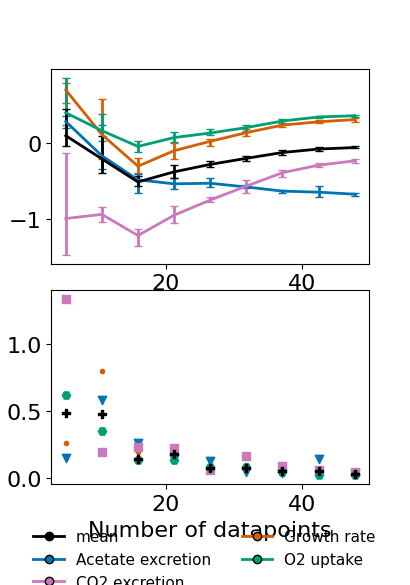
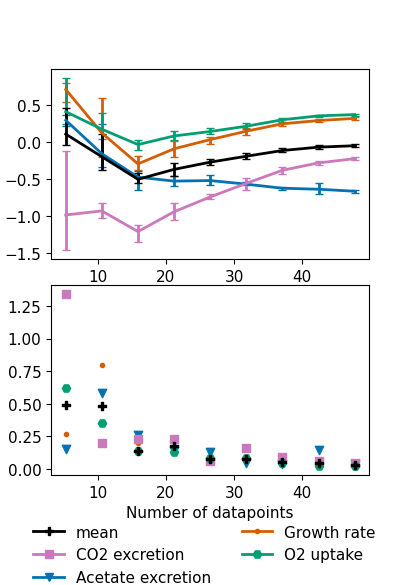
improved fig 4

diff --git a/Figures/Scripts/Figure4_data_reduction.py b/Figures/Scripts/Figure4_data_reduction.py
@@ -2,6 +2,7 @@ import matplotlib.pyplot as plt
 import matplotlib.gridspec as gridspec
 from matplotlib.lines import Line2D
 import matplotlib.container as mcontainer
+from matplotlib.collections import PathCollection
 import pandas as pd
 import os
 import seaborn as sns
@@ -14,7 +15,6 @@ from Scripts.Data_requirements.analyse_data_reduction_results import plot_progre
 def extract_color_and_marker(handle):
     """Extract line color and marker style from different matplotlib handle types."""
     color, marker, mface, medge = None, None, None, None
-
     if isinstance(handle, mcontainer.ErrorbarContainer):
         # Extract the main line and markerline
         if handle.lines[0]:  # main line
@@ -30,13 +30,54 @@ def extract_color_and_marker(handle):
         marker = handle.get_marker()
         mface = handle.get_markerfacecolor()
         medge = handle.get_markeredgecolor()
+    color, marker, mface, medge = None, None, None, None
+
+    if isinstance(handle, mcontainer.ErrorbarContainer):
+        # Extract color and marker from errorbar container
+        if handle.lines[0]:  # main line
+            color = handle.lines[0].get_color()
+        if handle.lines[1]:  # marker line
+            markerline = handle.lines[1][0]
+            marker = markerline.get_marker()
+            mface = markerline.get_markerfacecolor()
+            medge = markerline.get_markeredgecolor()
+
+    elif isinstance(handle, Line2D):
+        # Standard line plot
+        color = handle.get_color()
+        marker = handle.get_marker()
+        mface = handle.get_markerfacecolor()
+        medge = handle.get_markeredgecolor()
+
+    elif isinstance(handle, PathCollection):
+        # Scatter plots
+        # get_facecolors() returns an array of RGBA colors
+        fc = handle.get_facecolors()
+        ec = handle.get_edgecolors()
+
+        if len(fc) > 0:
+            color = mface = fc[0]  # use first color
+        elif len(ec) > 0:
+            color = mface = ec[0]
+        else:
+            color = mface = 'black'  # fallback
+
+        medge = ec[0] if len(ec) > 0 else 'black'
+
+        # Unfortunately, PathCollection doesn’t directly expose the marker symbol.
+        # We can try to infer it from the legend handle if available.
+        marker = getattr(handle, '_marker', None)
 
     else:
-        # fallback (e.g., Patch, Collection)
         try:
             color = handle.get_facecolor()[0]
         except Exception:
             color = 'black'
+
+        try:
+            marker = handle.get_marker()
+        except Exception:
+            marker = None
 
     return color, marker, mface, medge
 
@@ -79,13 +120,13 @@ def main():
 
 def main_datareduc():
     fig = plt.figure(figsize=(10.5/2.56, 15/2.56))  # Adjust overall size as needed
-    gs = gridspec.GridSpec(3, 1, hspace = 0.2, height_ratios=[1,1,0.05])
+    gs = gridspec.GridSpec(3, 1, hspace = 0.2, height_ratios=[1,1,0.1])
 
     ax_a = fig.add_subplot(gs[0])
     ax_b = fig.add_subplot(gs[1])
     final_errors = pd.read_excel(os.path.join('Results', 'data_reduction_results', 'r_squared_for_analysis.xlsx'))
-    plot_progression_of_errors(final_errors, ax = ax_a, legend=False)
-    plot_deviation_of_error(final_errors, ax = ax_b, legend=False)
+    plot_progression_of_errors(final_errors, ax = ax_a, legend=False, fontsize = FONTSIZE)
+    plot_deviation_of_error(final_errors, ax = ax_b, legend=False, fontsize = FONTSIZE)
 
     # ax_a = fig.add_subplot(gs[0])
 
@@ -103,14 +144,14 @@ def main_datareduc():
         handle_b = h_b[l_b.index(label)]
 
         color_a, _, _, _ = extract_color_and_marker(handle_a)
-        _, marker_b, mface_b, medge_b = extract_color_and_marker(handle_b)
+        # _, marker_b, mface_b, medge_b = extract_color_and_marker(handle_b)
+        marker_b = [".", 'v', 's', 'H', 'P', 'X', 'D', '_'][l_a.index(label)]
 
         combined_handles.append(Line2D(
             [0], [0],
             color=color_a,
             marker=marker_b or 'o',
-            markerfacecolor=mface_b or color_a,
-            markeredgecolor=medge_b or 'black',
+            markerfacecolor=color_a,
             linestyle='-',
             linewidth=2,
             markersize=6
